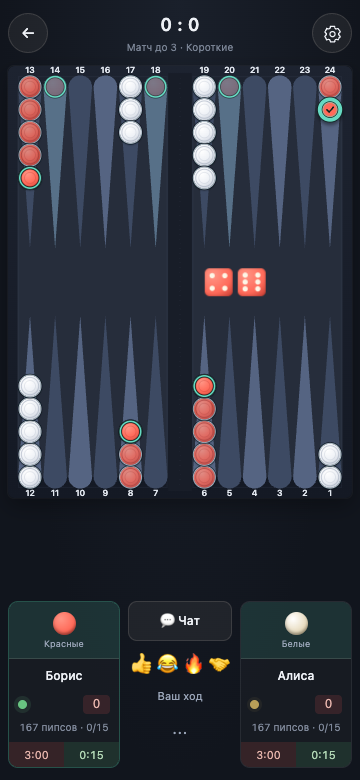
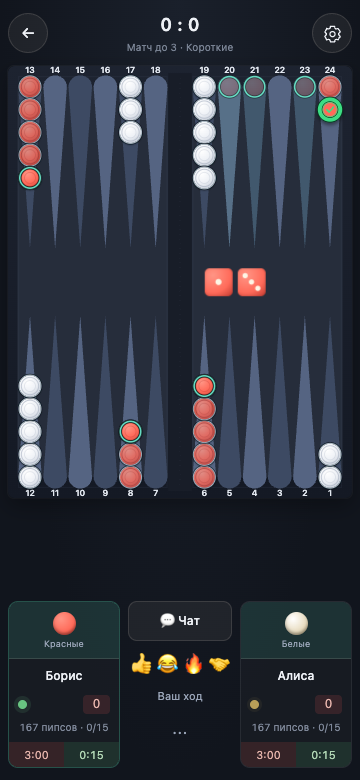
feat(web): green selected checker; tap always selects and shows destinations, no auto-play

diff --git a/apps/web/src/components/Board.tsx b/apps/web/src/components/Board.tsx
@@ -20,7 +20,7 @@ import {
   locCounts,
   slotX,
 } from './geometry';
-import { BoardTheme, THEMES, HINT_FILL_W, HINT_EDGE_W } from './themes';
+import { BoardTheme, THEMES, HINT_FILL_W, HINT_EDGE_W, SELECT_GREEN, SELECT_DARK } from './themes';
 import type { Theme } from '../lib/settings';
 
 export interface BoardProps {
@@ -283,7 +283,7 @@ export function BoardView(p: BoardProps) {
         const x = isGhost ? ghost!.x : c.x;
         const y = isGhost ? ghost!.y : c.y;
         const movable = p.hints && c.top && c.color === p.mover && p.movable.has(c.loc);
-        const selectedInk = c.color === 0 || p.theme === 'minimal' ? th.hint.edge : th.hint.fill;
+        const selectedInk = c.color === 0 ? SELECT_DARK : SELECT_GREEN;
         const selected = p.hints && c.top && c.color === p.mover && p.selected === c.loc;
         return (
           <g
@@ -305,10 +305,10 @@ export function BoardView(p: BoardProps) {
                 <circle r={R - 15} fill="none" stroke={col.ring} strokeWidth="1.2" opacity="0.55" /></>}
                 {(movable || selected) && (
                   <g data-hint={selected ? 'selected' : 'movable'}>
-                    <circle r={R - 3} fill="none" stroke={th.hint.edge} strokeWidth={HINT_EDGE_W + (selected ? 6 : 0)} />
-                    <circle r={R - 3} fill="none" stroke={th.hint.fill} strokeWidth={HINT_FILL_W + (selected ? 6 : 0)} />
+                    <circle r={R - 3} fill="none" stroke={selected ? SELECT_DARK : th.hint.edge} strokeWidth={HINT_EDGE_W + (selected ? 6 : 0)} />
+                    <circle r={R - 3} fill="none" stroke={selected ? SELECT_GREEN : th.hint.fill} strokeWidth={HINT_FILL_W + (selected ? 6 : 0)} />
                     {selected && <>
-                      <circle data-selected-mark r={R - 11} fill={col.base} stroke={th.hint.fill} strokeWidth="1.5" />
+                      <circle data-selected-mark r={R - 11} fill={col.base} stroke={SELECT_GREEN} strokeWidth="2" />
                       {c.count <= 5 && <path d="M -8 0 L -2 6 L 9 -7" fill="none" stroke={selectedInk} strokeWidth="4" strokeLinecap="round" strokeLinejoin="round" />}
                     </>}
                   </g>

diff --git a/apps/web/src/screens/Game.tsx b/apps/web/src/screens/Game.tsx
@@ -174,11 +174,6 @@ export function GameScreen({ onExit }: { onExit: () => void }) {
   const dimSet = useRef(new Set<Loc>());
   if (!busy) dimSet.current = movable;
 
-  // Auto-select when only one checker can move.
-  useEffect(() => {
-    if (movable.size === 1 && !selected) setSelected([...movable][0]);
-  }, [movable, selected]);
-
   const locToPos = useCallback(
     (loc: Loc, color: Color): number => (loc === 'bar' ? BAR : loc === 'off' ? OFF : posOfSlot(Number(loc.slice(1)), color, viewer, variant)),
     [viewer, variant],
@@ -296,10 +291,6 @@ export function GameScreen({ onExit }: { onExit: () => void }) {
     if (rollActor && !mayDouble && !st.autoRoll) return doRoll();
     if (!canInteract) return;
     if (selected && dests.has(loc)) return playChain(dests.get(loc)!);
-    if (movable.has(loc) && pending && mover !== null) {
-      const ds = destinationsFrom(pending.ts, locToPos(loc, mover), memoRef.current);
-      if (ds.length === 1) return playChain(ds[0].steps);
-    }
     if (movable.has(loc)) return setSelected(selected === loc ? null : loc);
     setSelected(null);
   };

diff --git a/apps/web/src/components/themes.ts b/apps/web/src/components/themes.ts
@@ -1,5 +1,7 @@
 import type { Theme } from '../lib/settings';
 
+export const SELECT_GREEN = "#3ddc84"; // selected checker: distinct from per-theme movable hints
+export const SELECT_DARK = "#06361b";
 export const HINT_FILL_W = 4;
 export const HINT_EDGE_W = 8;
 
